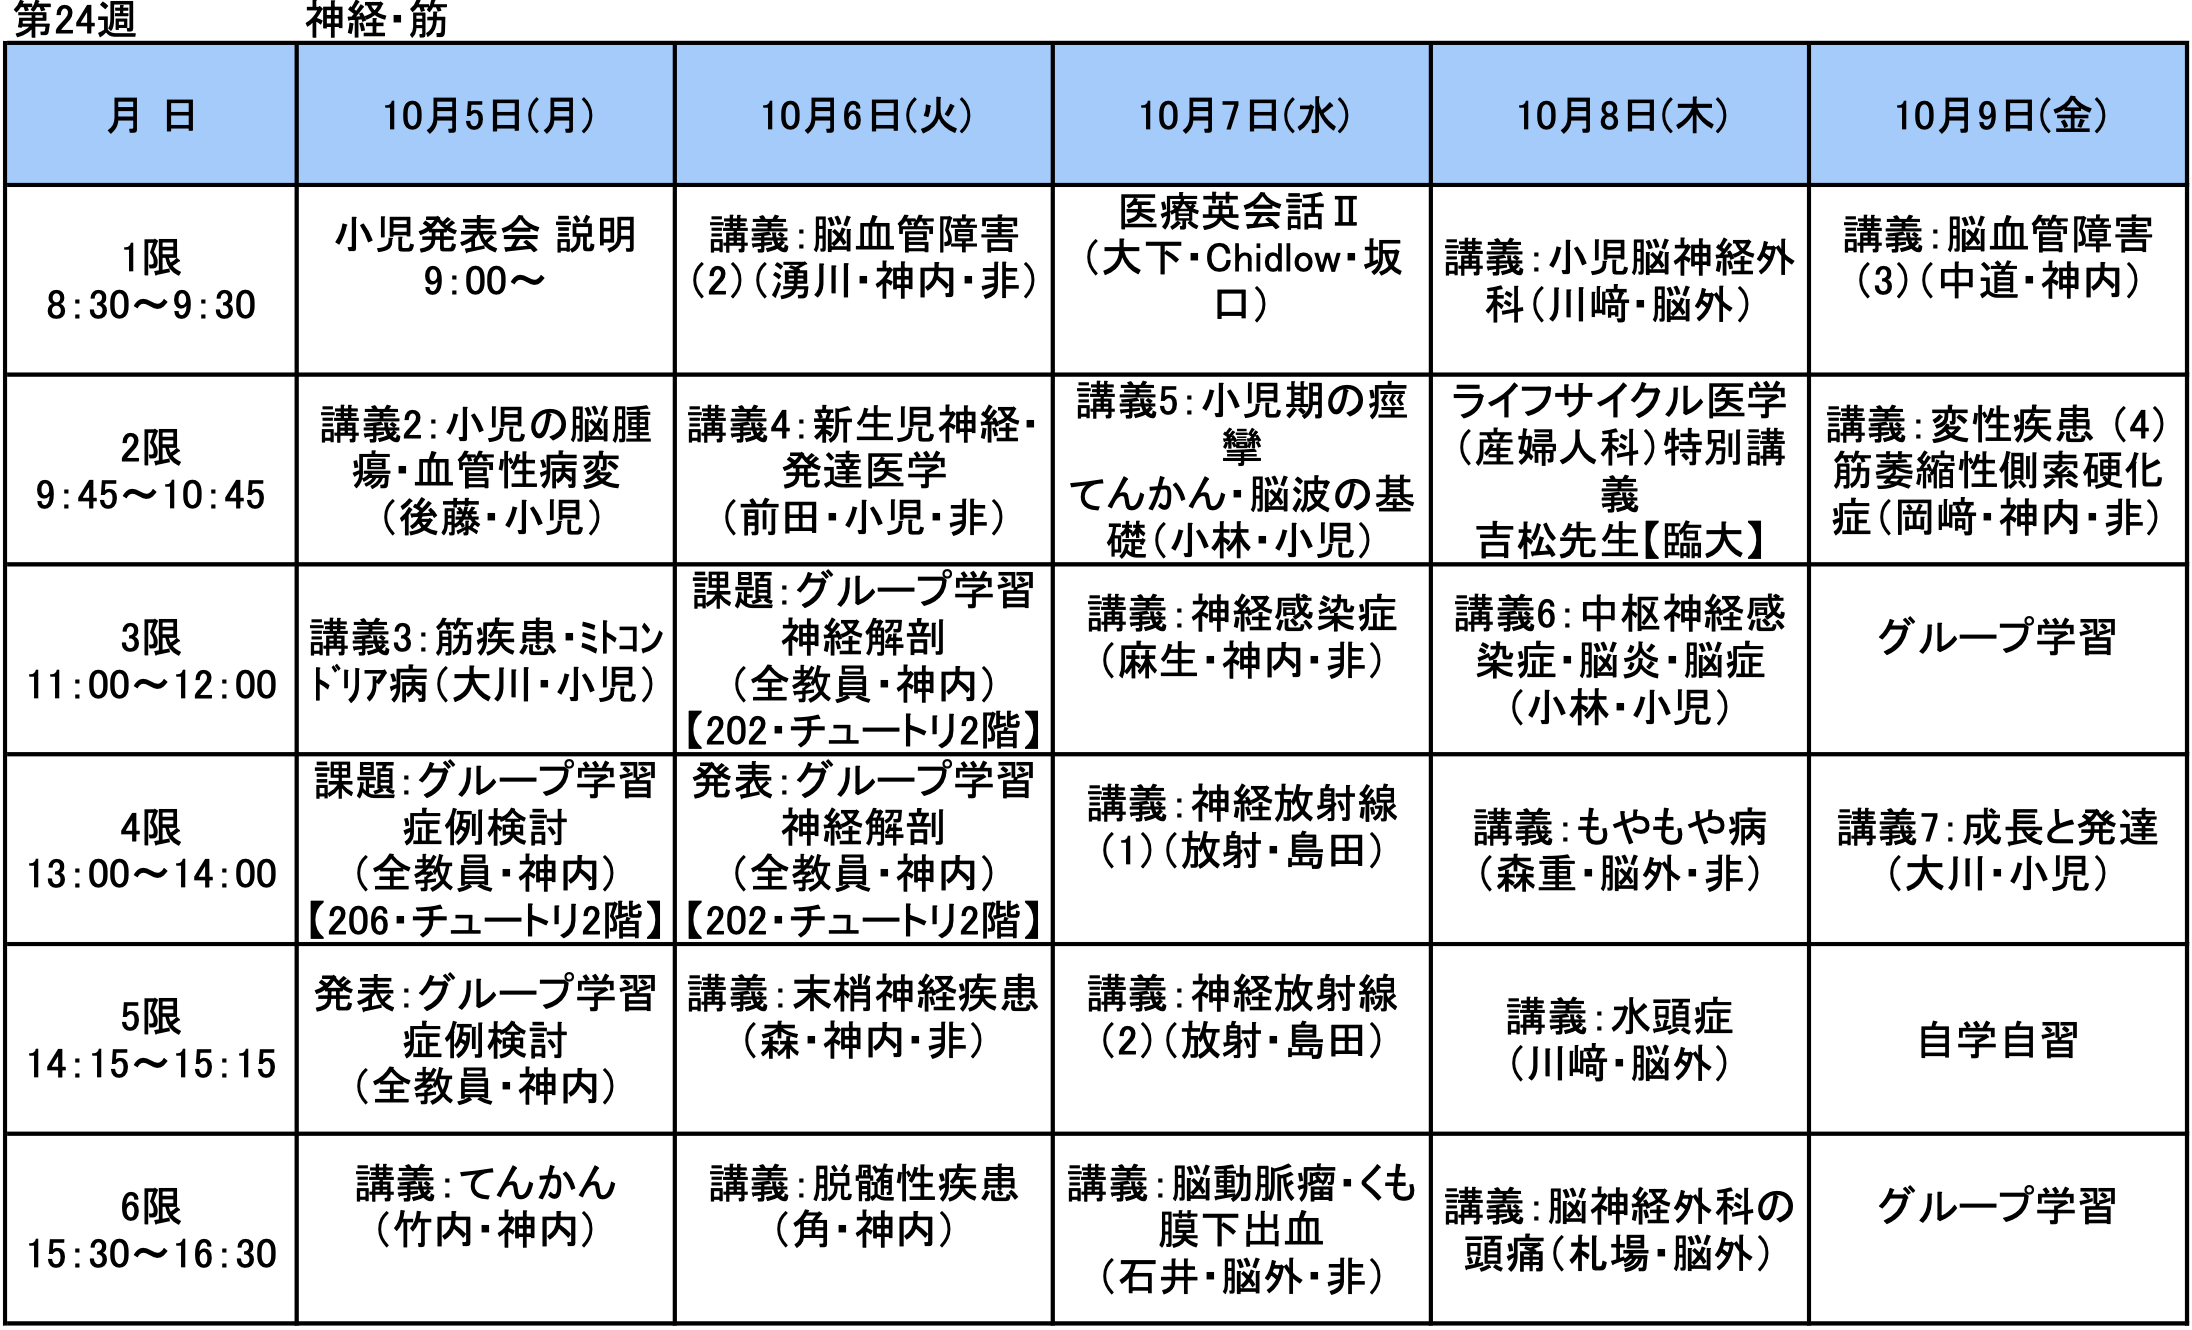
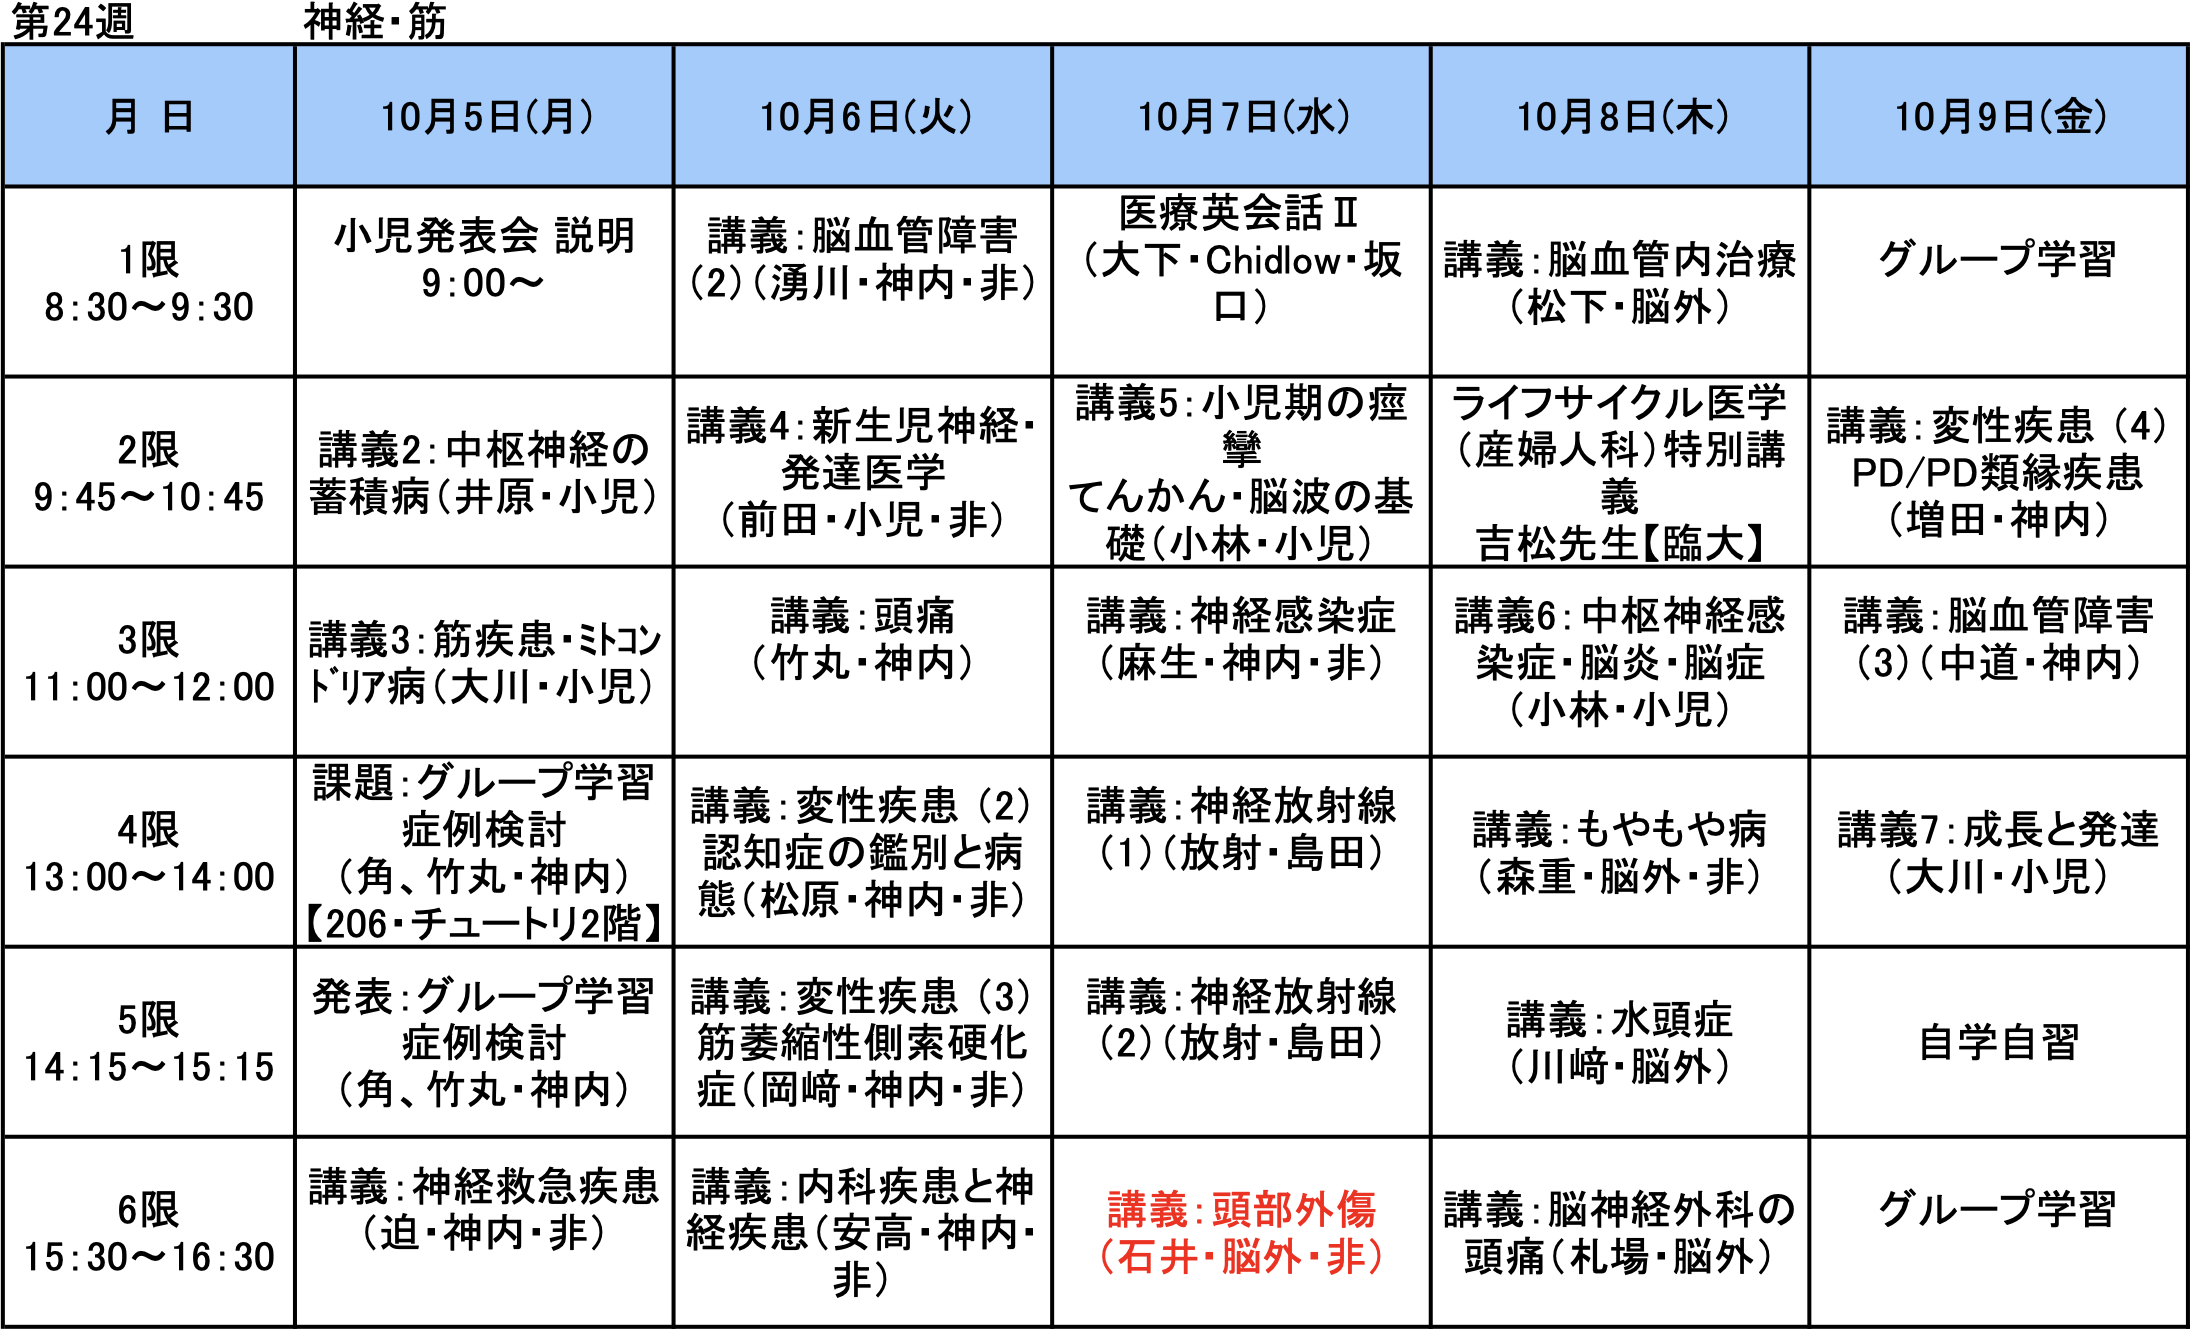
時間割変更

diff --git a/index.html b/index.html
@@ -30,7 +30,7 @@
         </h1>
     </header>
     <main class="page-content">
-    <h3 class="top-object">今週の時間割（8月20日更新）</h3>
+    <h3 class="top-object">今週の時間割（10月2日更新）</h3>
     <div id="nav">
         <button id="prev">&lt;前の週</button>
         <button id="next">次の週&gt;</button>
@@ -138,7 +138,7 @@
     </div>
     </main>
     <script>
-        const IMG_VERSION = "2026-08-20";
+        const IMG_VERSION = "2026-10-02";
         const today = new Date();
         let offset = 0;
 
